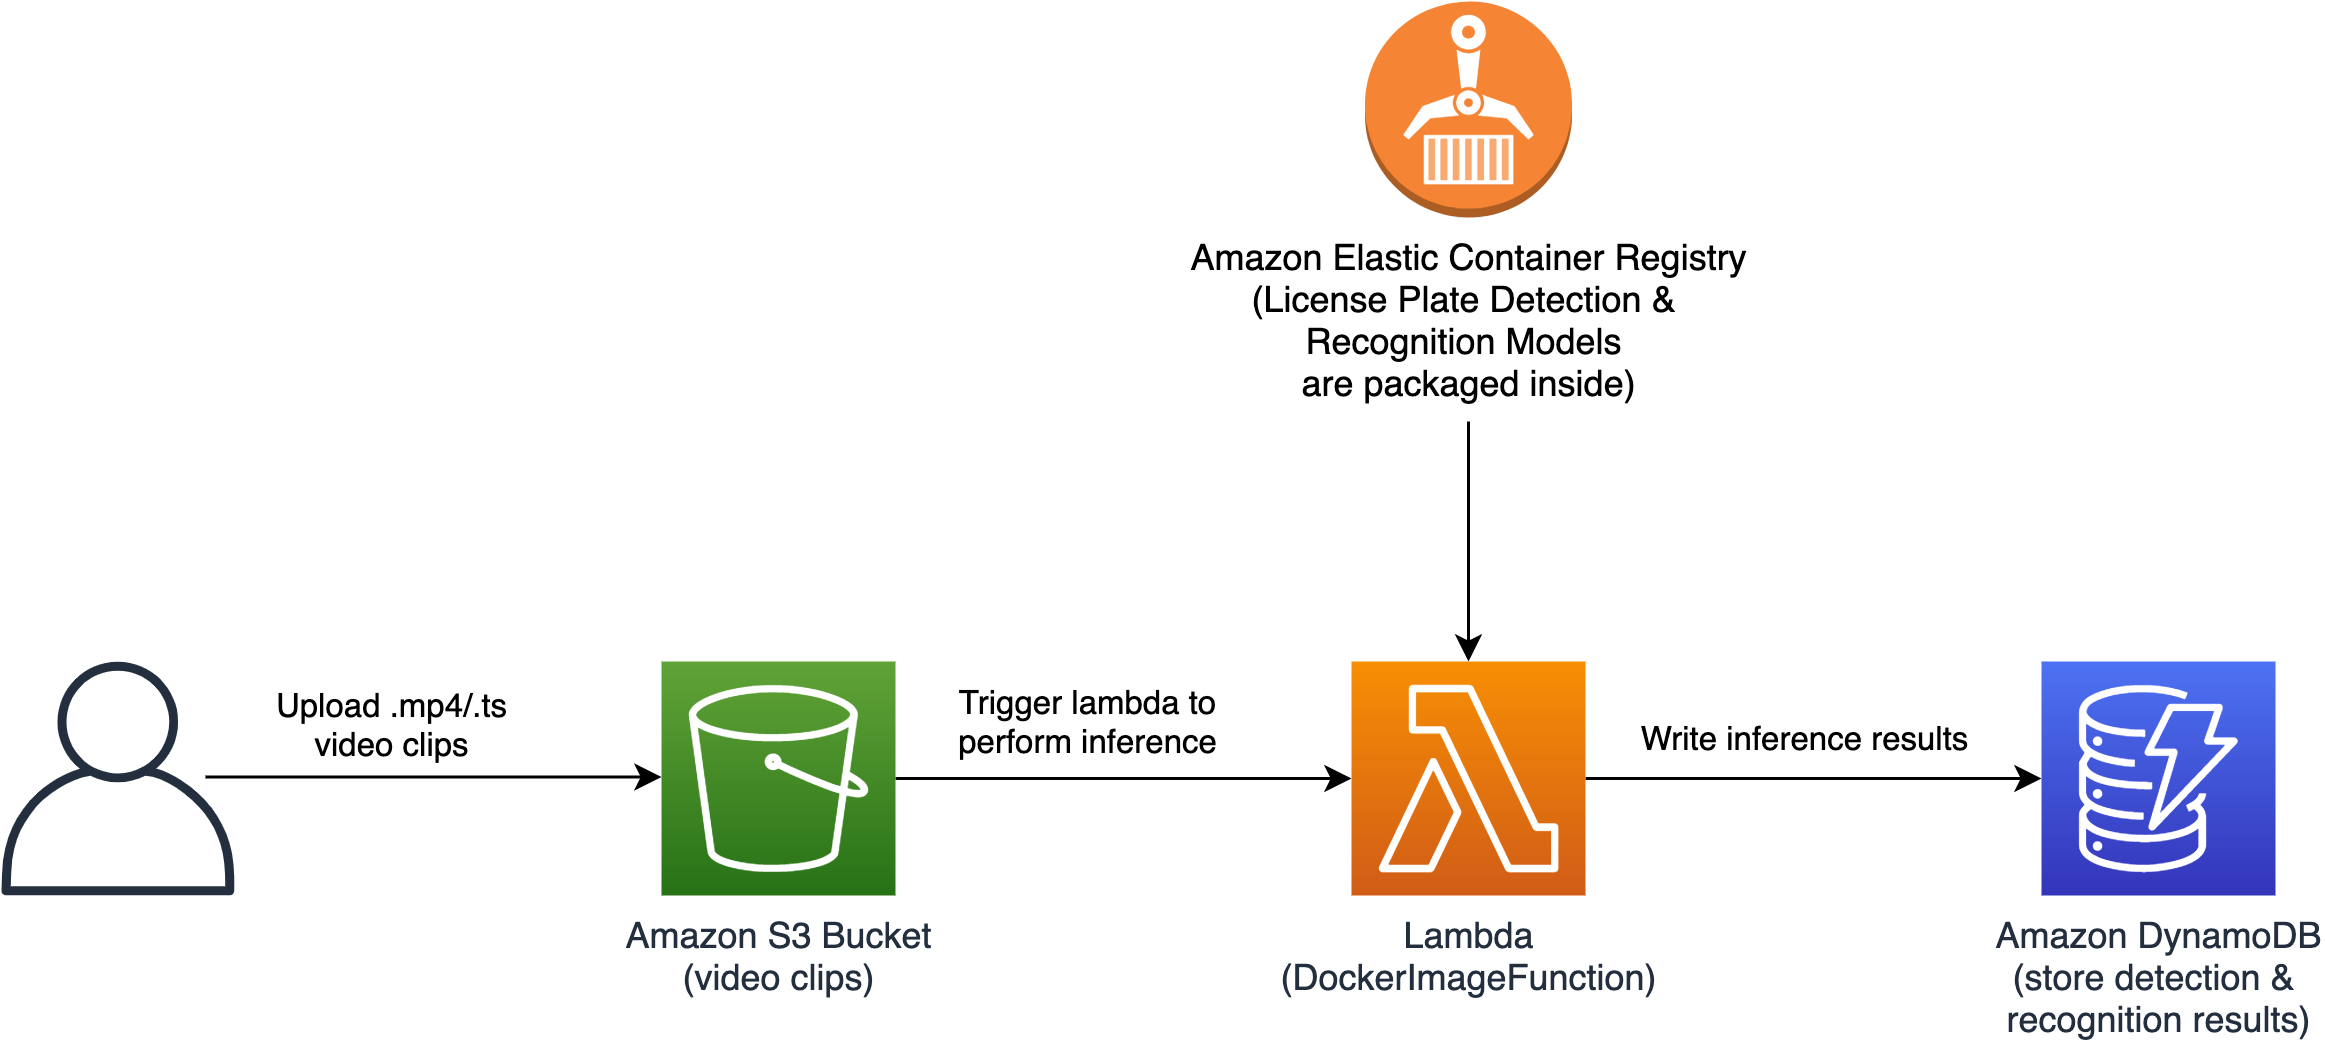
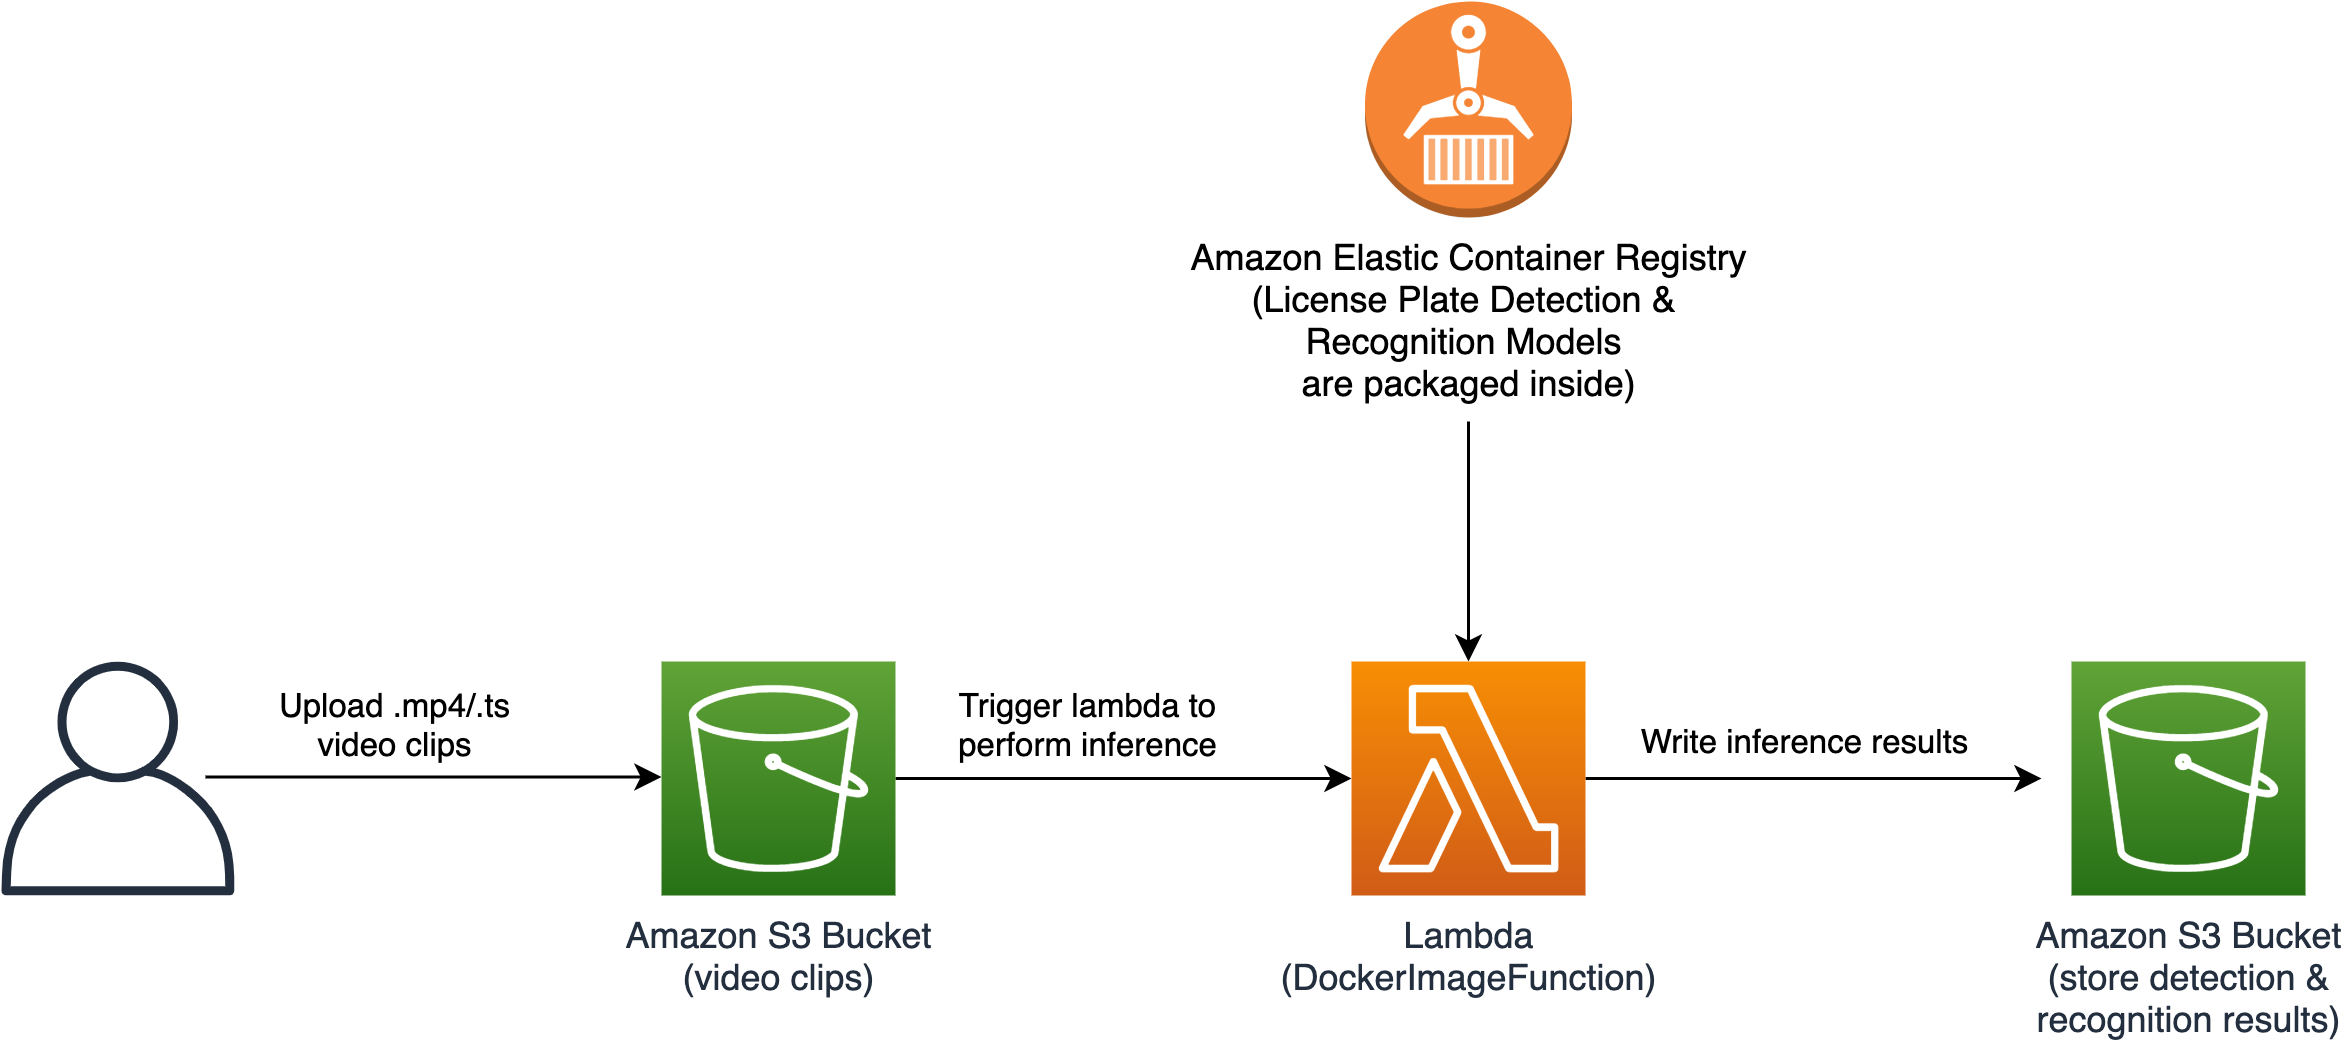
change dynamodb to S3 to store inference results

diff --git a/lib/vehicles-license-plate-detection-and-recognition-stack.ts b/lib/vehicles-license-plate-detection-and-recognition-stack.ts
@@ -24,23 +24,17 @@ export class VehiclesLicensePlateDetectionAndRecognitionStack extends cdk.Stack 
         }
     );
 
-
     /**
-    * Dynamodb Provision: it is used to store the inference results
-    */
-    const licensePlateInfoTable = new dynamodb.Table(
+     * S3 bucket provision: Create a bucket which is used to store all inference results
+     */
+    const inferenceResults = new s3.Bucket(
         this,
-        'licensePlateInfoTable',
+        'inferenceResults',
         {
-            partitionKey: {
-                name: 'event',
-                type: dynamodb.AttributeType.STRING
-            },
-            billingMode: dynamodb.BillingMode.PAY_PER_REQUEST,
             removalPolicy: cdk.RemovalPolicy.DESTROY,
+            autoDeleteObjects: true,
         }
     );
-
 
     /**
     * Lambda functions allow specifying their handlers within docker images. The docker
@@ -65,18 +59,14 @@ export class VehiclesLicensePlateDetectionAndRecognitionStack extends cdk.Stack 
         {
             code: lambda.DockerImageCode.fromImageAsset('./lambda/'),
             environment: {
-                S3BucketName: videosAsset.bucketName,
-                DynamoDBTableName: licensePlateInfoTable.tableName,
-                DynamoDBPrimaryKey: 'event',
+                VideoAssetsS3BucketName: videosAsset.bucketName,
+                InferenceResultsS3BucketName: inferenceResults.bucketName,
             },
             timeout: cdk.Duration.minutes(15),
             role: role,
             memorySize: 10240,
         }
     );
-    // assign dynamodb permissions for lambda functions
-    licensePlateInfoTable.grantWriteData(frameExtractorWithLicensePlateDetectionAndRecognition);
-
 
     /**
     * Add S3 trigger event

diff --git a/lambda/main.py b/lambda/main.py
@@ -28,21 +28,29 @@ def handler(event, context):
     :param context: computing context
     :return: None
     """
-    bucket_name = os.environ['S3BucketName']
-    ddb_table_name = os.environ['DynamoDBTableName']
-    ddb_primary_key = os.environ['DynamoDBPrimaryKey']
+    video_assets_bucket_name = os.environ['VideoAssetsS3BucketName']
+    inference_results_bucket_name = os.environ['InferenceResultsS3BucketName']
 
     video_clip_name = event['Records'][0]['s3']['object']['key']
     local_temp_path = '/tmp/' + video_clip_name
 
     # download mp4 video clip from s3 bucket
-    s3.meta.client.download_file(bucket_name, video_clip_name, local_temp_path)
-    print('bucket_name = {}'.format(bucket_name))
+    s3.meta.client.download_file(video_assets_bucket_name, video_clip_name, local_temp_path)
+    print('video_assets_bucket_name = {}'.format(video_assets_bucket_name))
     print('video_clip_name = {}'.format(video_clip_name))
 
     # load video clip
     vr = VideoReader(local_temp_path)
     duration = len(vr)
+
+    # construct the event data, which will be dumped into S3 bucket later
+    event_data = {
+        'event_id': str(uuid.uuid4()),
+        'video_source': os.path.join(video_assets_bucket_name, video_clip_name),
+        'frames_amount': frame_interval,
+        'frames_interval': frame_interval
+    }
+    frames_response_list = list()
 
     for frame_index in np.arange(0, duration, frame_interval):
         image = vr[frame_index].asnumpy()       # RGB order
@@ -57,40 +65,29 @@ def handler(event, context):
             confidences=detect_scores,
             conf_thresh=0.25)
 
-        if len(detect_boxes) == 0:
-            print('Frame {}/{}: image shape = {}, detect_boxes = {}, detect_scores = {}'.format(
-                frame_index + 1, duration, image.shape, detect_boxes, detect_scores))
-            continue
+        print('Frame {}/{}: image shape = {}, detect_boxes = {}, detect_scores = {}, recognize_boxes = {}, '
+              'recognize_scores = {}, recognize_texts = {}'.format(frame_index + 1, duration, image.shape,
+                                                                   detect_boxes, detect_scores,
+                                                                   recognize_boxes, recognize_scores, recognize_texts))
 
-        # step 3: save response into dynamodb
-        detection_response = json.dumps({
-            'boxes': detect_boxes,              # shape = (N, 4)
-            'confidences': detect_scores        # shape = (N, 1)
-        })
-        recognition_response = json.dumps({
-            'boxes': recognize_boxes,           # shape = (N, 4)
-            'confidences': recognize_scores,    # shape = (N, 1)
-            'texts': recognize_texts            # shape = (N, 1)
-        })
-
-        print('Frame {}/{}: image shape = {}, detection = {}, recognition = {}'.format(
-            frame_index + 1, duration, image.shape, detection_response, recognition_response))
-
-        event_id = str(uuid.uuid4())
-        insert_item = {
-            ddb_primary_key: {'S': event_id},
-            'video_source': {'S': os.path.join(bucket_name, video_clip_name)},
-            'frames_amount': {'S': str(duration)},
-            'frames_interval': {'S': str(frame_interval)},
-            'frame_index': {'S': str(frame_index)},
-            'detect_response': {'S': detection_response},
-            'recognize_response': {'S': recognition_response}
-        }
-
-        response = dynamodb.put_item(
-            TableName=ddb_table_name,
-            Item=insert_item
+        frames_response_list.append(
+            {
+                'frame_index': frame_index,
+                'detect_boxes': detect_boxes,           # shape = (N, 4)
+                'detect_scores': detect_scores,         # shape = (N, 1)
+                'recognize_boxes': recognize_boxes,     # shape = (N, 4)
+                'recognize_scores': recognize_scores,   # shape = (N, 1)
+                'recognize_texts': recognize_texts      # shape = (N, 1)
+            }
         )
+
+    # dump detection and recognition results into S3 bucket
+    event_data['response'] = frames_response_list
+    serialized_data = json.dumps(event_data, separators=(',', ':'))
+    s3_dump_response = s3.put_object(
+        Bucket=inference_results_bucket_name,
+        Key=video_clip_name + '_response.json',
+        Body=serialized_data)
 
     print('Lambda Task Completed.')
 

diff --git a/README.md b/README.md
@@ -11,21 +11,20 @@
 
 
 ## 方案介绍
-该解决方案基于`Amazon S3`，`Amazon Lambda`，`Amazon Elastic Container Registry (ECR)`，`Amazon DynamoDB`
+该解决方案基于`Amazon S3`，`Amazon Lambda`，`Amazon Elastic Container Registry (ECR)`
 组件实现。用户基于该解决方案架构可以实现车牌的自动检测和识别，该方案基于无服务架构实现，用户设备侧上传视频片段到
-云端S3桶中，会自动触发`Lambda`函数进行车牌检测（检测网络为`yolo-v4`）和识别， 识别结果会被存储到`DynamoDB`中进行存储。该方案中
+云端S3桶中，会自动触发`Lambda`函数进行车牌检测（检测网络为`yolo-v4`）和识别， 识别结果会被存储到`Amazon S3`桶中进行存储。该方案中
 针对检测和识别的是中国城市车牌，所用到的训练数据集为[CCPD (Chinese City Parking Dataset)](https://github.com/detectRecog/CCPD) ，
-数据集中图像基本均为各种停车场景下进行捕捉的，视角基本是平视。迁移至其他地域其他应用场景下的车牌检测和识别需要收集当地的数据集，以及相应
+数据集中图像基本均为各种停车场景下进行捕捉的，视角基本是平视。迁移至其他地域其他应用场景下的车牌检测和识别需要收集当地的数据集，同时需要用相应
 视角场景下的数据来训练算法模型。
 
 架构图如下所示:
 ![license_plate_detection_and_recognition_serverless_architecture](architecture.png)
 
 架构图中各个组件的功能描述如下:
-1. `Amazon S3`: 用来存储用户设备端的视频片段；
+1. `Amazon S3`: 用来存储用户设备端的视频片段，和用来存储车牌识别和检测的推理结果；
 1. `Amazon Lambda`: 完成视频片段的抽帧，以及对图像帧中的车牌进行检测和识别；
 1. `Amazon Elastic Container Registry (ECR)`: 存储着车牌检测和识别处理镜像；
-1. `Amazon DynamoDB`: 存储着每一个车牌检测和识别事件的结果。
 
 
 ## 方案部署
